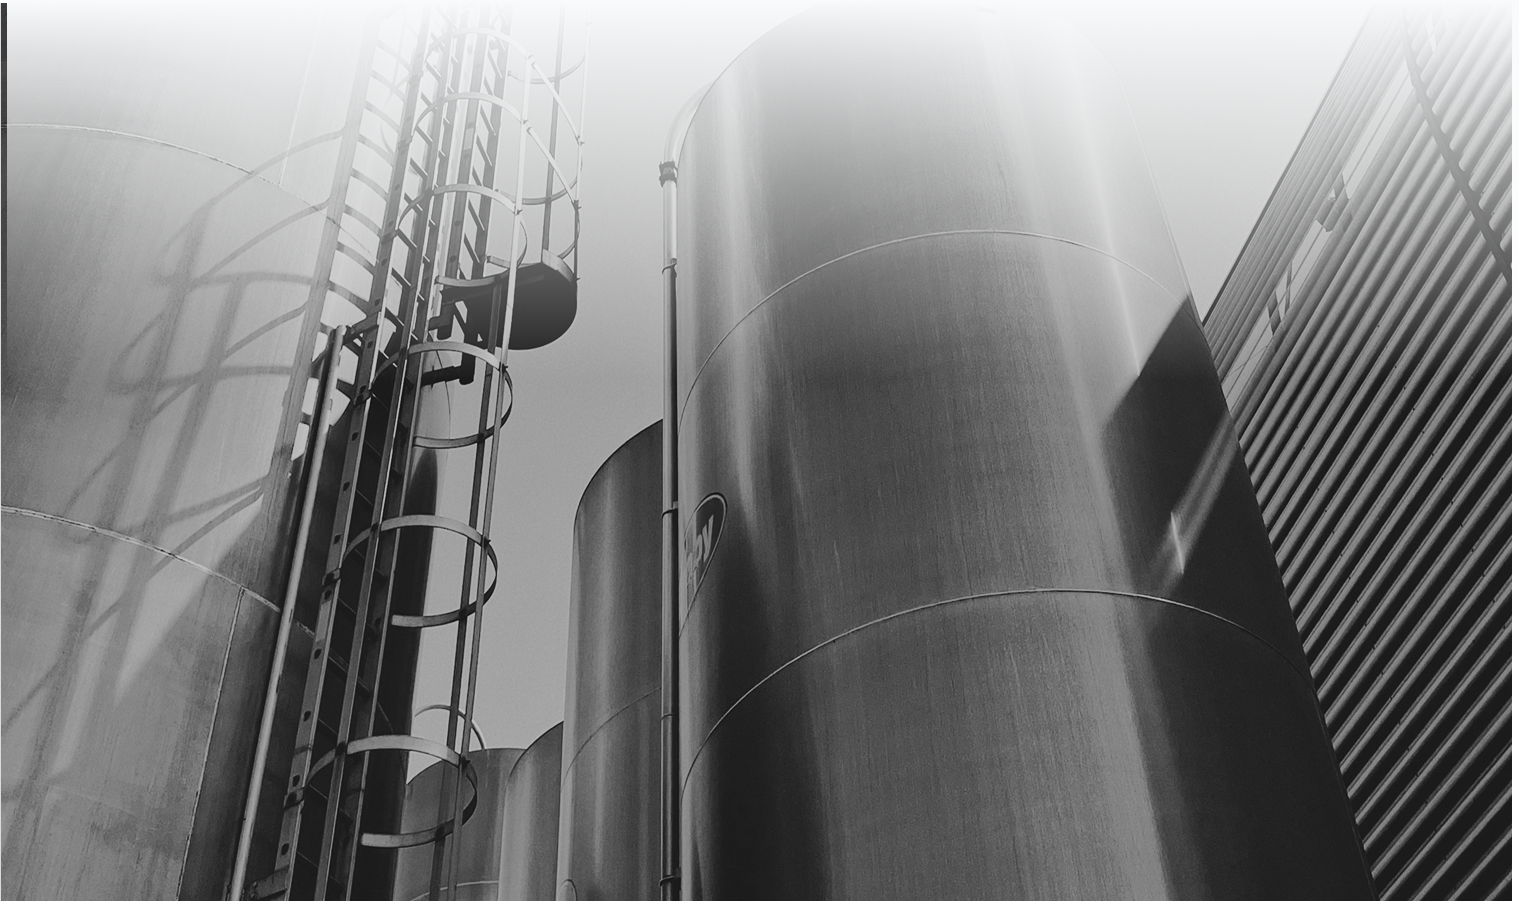
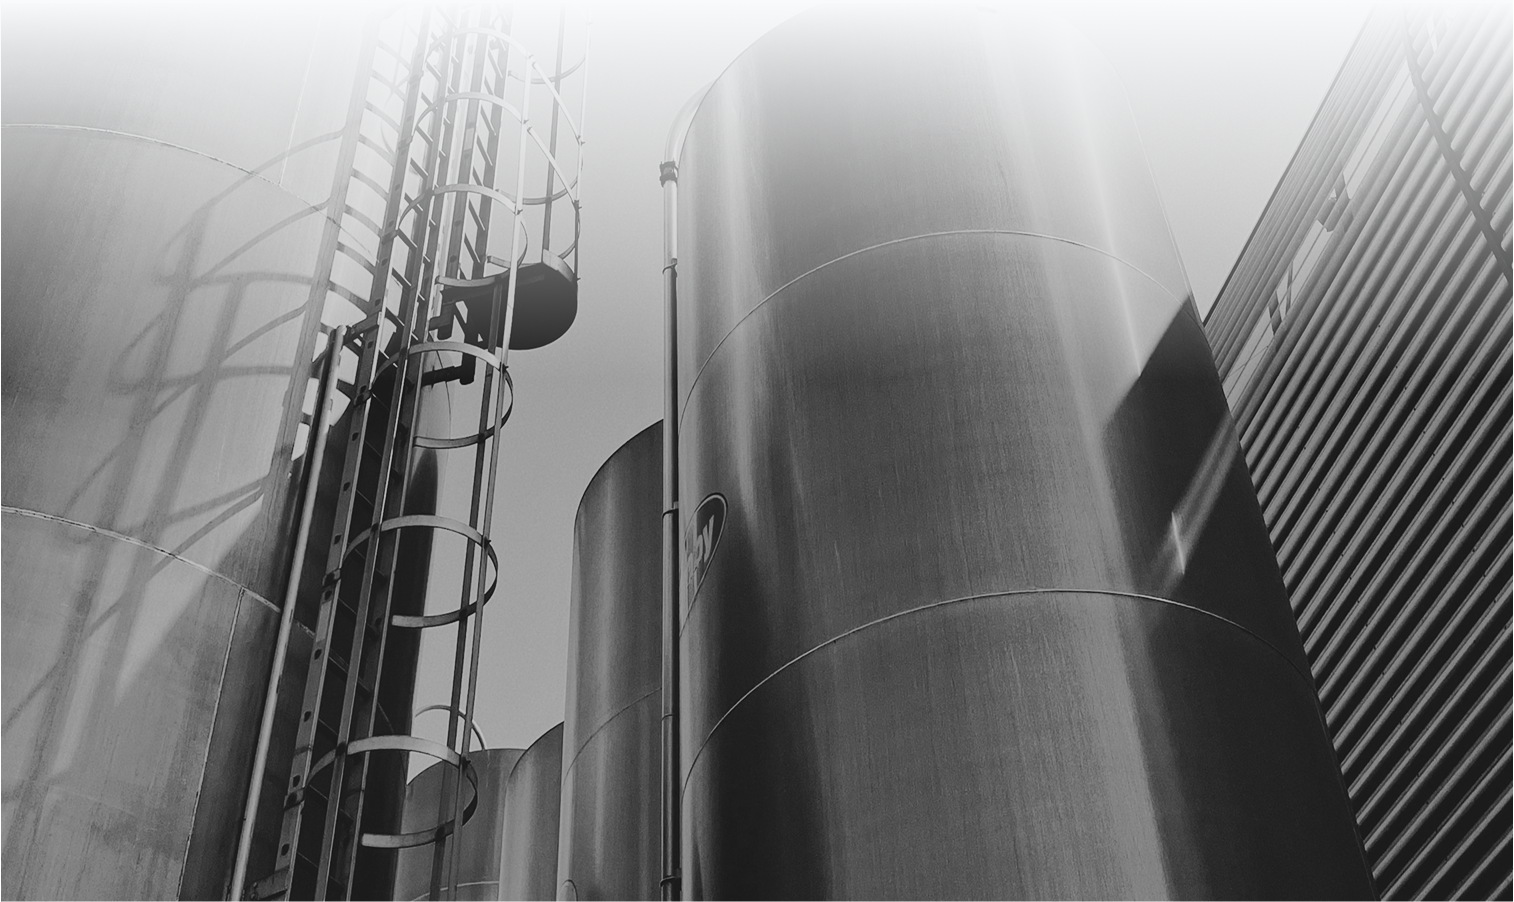
update styling and image loader

diff --git a/next.config.ts b/next.config.ts
@@ -41,9 +41,9 @@ const nextConfig: NextConfig = {
       },
       {
         protocol: 'https' as const,
-        hostname: 'eber-api.agepedia.infouploads',
+        hostname: 'eber-api.agepedia.info',
         port: '',
-        pathname: '/**',
+        pathname: '/uploads/**',
       },
     ],
   },
@@ -79,6 +79,38 @@ const nextConfig: NextConfig = {
       path: false,
     };
     return config;
+  },
+  // Cache headers for static assets (images)
+  async headers() {
+    return [
+      {
+        source: '/photo/:path*',
+        headers: [
+          {
+            key: 'Cache-Control',
+            value: 'public, max-age=31536000, immutable',
+          },
+        ],
+      },
+      {
+        source: '/background/:path*',
+        headers: [
+          {
+            key: 'Cache-Control',
+            value: 'public, max-age=31536000, immutable',
+          },
+        ],
+      },
+      {
+        source: '/icon/:path*',
+        headers: [
+          {
+            key: 'Cache-Control',
+            value: 'public, max-age=31536000, immutable',
+          },
+        ],
+      },
+    ];
   },
 };
 

diff --git a/src/containers/home/CustomProductSection.tsx b/src/containers/home/CustomProductSection.tsx
@@ -57,7 +57,7 @@ export const CustomProductSection = () => {
           src={getBackgroundImage('container1Mobile')}
           alt="container background"
           objectFit={'fill'}
-          priority={false}
+          priority={true}
           quality={75}
           className={animationClasses.slideRight}
           sx={customProductSectionStyles.imageBackgroundMobile}
@@ -96,7 +96,7 @@ export const CustomProductSection = () => {
         src={getBackgroundImage('container1')}
         alt="container background"
         objectFit={'fill'}
-        priority={false}
+        priority={true}
         quality={75}
         placeholderColor="#cbd5e0"
         className={animationClasses.slideRight}

diff --git a/src/components/header/index.tsx b/src/components/header/index.tsx
@@ -467,7 +467,7 @@ const Header = () => {
               isHomePagePath || isAboutUsPagePath
             )}
             contentSx={headerStyles.backgroundImageContent}
-            priority={false}
+            priority={true}
             quality={70}
             placeholderColor="#4a5568"
           >
@@ -568,6 +568,8 @@ const Header = () => {
               <Box sx={headerStyles.mobileMenuLogoContainer}>
                 <Image
                   src={type === 'mobile' ? logoMobile : logo}
+                  width={100}
+                  height={100}
                   alt="EBER-Logo"
                   style={headerStyles.mobileMenuLogo}
                 />

diff --git a/src/containers/home/styles.ts b/src/containers/home/styles.ts
@@ -183,12 +183,9 @@ export const customProductSectionStyles = {
       position: 'absolute',
       width: dynamicStylingValue(type, '100vw', '40vw', '40vw'),
       height: dynamicStylingValue(type, '30%', '40%', '40%'),
-      transform: dynamicStylingValue(
-        type,
-        'translate(-5%, -60%)',
-        'translate(-58%, -60%)',
-        'translate(-58%, -60%)'
-      ),
+      left: '0',
+      right: '20vw',
+      bottom: '21vw',
       zIndex: 20,
       willChange: 'transform',
     }) as SxProps<Theme>,

diff --git a/src/components/footer/index.tsx b/src/components/footer/index.tsx
@@ -93,13 +93,15 @@ const Footer = () => {
             right: 0,
             zIndex: -1,
             width: '100%',
-            height: '100%',
+            height: '90%',
           }}
         >
           <Image
             src={getBackgroundImage('siteBg')}
             alt="site"
-            fill
+            style={{ objectFit: 'fill', width: '100%', height: '100%' }}
+            width={1000}
+            height={1000}
             loading="lazy"
           />
         </Box>

diff --git a/src/containers/home/InnovationSection.tsx b/src/containers/home/InnovationSection.tsx
@@ -78,7 +78,13 @@ export const InnovationSection = () => {
       </Box>
       {type === 'mobile' && (
         <Box sx={innovationSectionStyles.imageContainer(type)}>
-          <Image src={getPhoto('tanki')} alt="tangki-image" loading="lazy" />
+          <Image
+            src={getPhoto('tanki')}
+            alt="tangki-image"
+            width={1000}
+            height={1000}
+            loading="lazy"
+          />
         </Box>
       )}
       <Box

diff --git a/src/containers/about-us/ValueSection.tsx b/src/containers/about-us/ValueSection.tsx
@@ -136,11 +136,11 @@ export const ValueSection = () => {
       <Box
         sx={{
           position: 'absolute',
-          bottom: '-40vh',
+          bottom: '-45vh',
           right: dynamicStylingValue(type, '0', '-10vw', '-10vw'),
           zIndex: -1,
           width: dynamicStylingValue(type, '120vw', '100vw', '100vw'),
-          height: '100%',
+          height: 'auto%',
         }}
       >
         <Image

diff --git a/src/containers/corporate/style.ts b/src/containers/corporate/style.ts
@@ -5,7 +5,7 @@ export const styles = {
     display: 'flex',
     flexDirection: dynamicStylingValue(type, 'column', 'row', 'row'),
     gap: dynamicStylingValue(type, '16px', '1%', '1%'),
-    marginTop: dynamicStylingValue(type, '-60vh', '-20vh', '-20vh'),
+    marginTop: dynamicStylingValue(type, '-45vh', '-20vh', '-20vh'),
   }),
 
   contentContainer: (type: DeviceType) => ({

diff --git a/src/containers/activity/style.ts b/src/containers/activity/style.ts
@@ -5,7 +5,7 @@ export const styles = {
   mainContainer: (type: DeviceType) => ({
     display: 'flex',
     flexDirection: dynamicStylingValue(type, 'column', 'row', 'row'),
-    marginTop: dynamicStylingValue(type, '-60vh', '-20vh', '-20vh'),
+    marginTop: dynamicStylingValue(type, '-45vh', '-20vh', '-20vh'),
     justifyContent: 'center',
   }),
 

diff --git a/src/containers/career/style.ts b/src/containers/career/style.ts
@@ -8,7 +8,7 @@ export const styles = {
     justifyContent: 'center',
     alignItems: 'stretch',
     gap: '1%',
-    marginTop: dynamicStylingValue(type, '-60vh', '-20vh', '-20vh'),
+    marginTop: dynamicStylingValue(type, '-45vh', '-20vh', '-20vh'),
   }),
 
   infoCard: (type: DeviceType) => ({

diff --git a/src/containers/product/style.ts b/src/containers/product/style.ts
@@ -4,7 +4,7 @@ export const styles = {
   // Main container
   mainContainer: (type: DeviceType) => ({
     marginX: '2vw',
-    marginTop: dynamicStylingValue(type, '-60vh', '-20vh', '-20vh'),
+    marginTop: dynamicStylingValue(type, '-45vh', '-20vh', '-20vh'),
   }),
 
   // Header section styles

diff --git a/src/containers/about-us/styles.ts b/src/containers/about-us/styles.ts
@@ -122,7 +122,7 @@ export const valueStyles: {
   },
   fieldPersonContainer: (type: DeviceType) => ({
     position: 'absolute',
-    bottom: 'var(--bg-bottom, 13%)',
+    bottom: '3vw',
     left: dynamicStylingValue(type, '5%', '-2%', '-2%'),
     zIndex: 1000,
   }),
